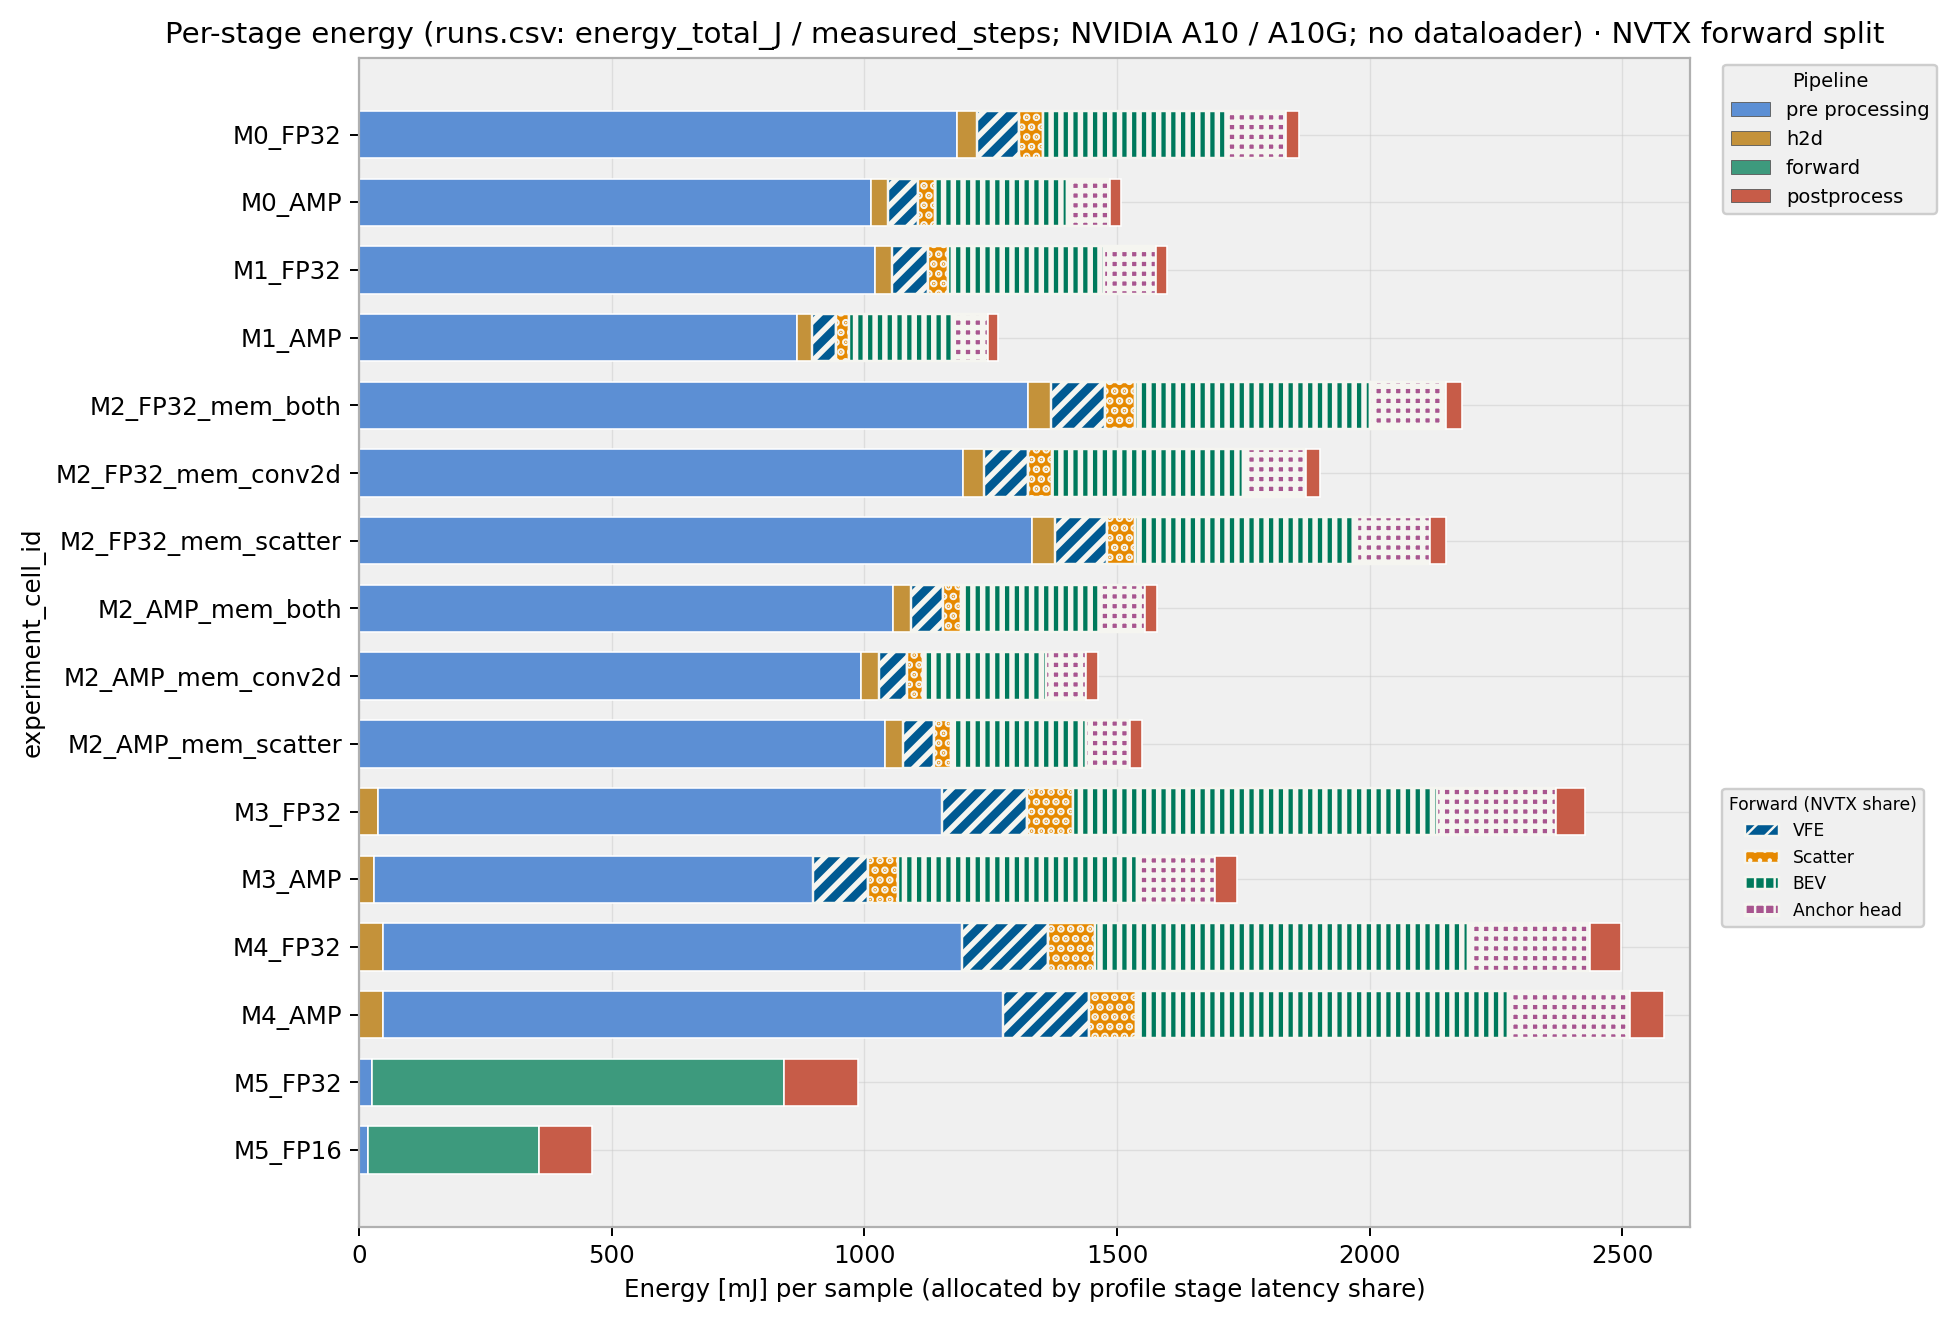
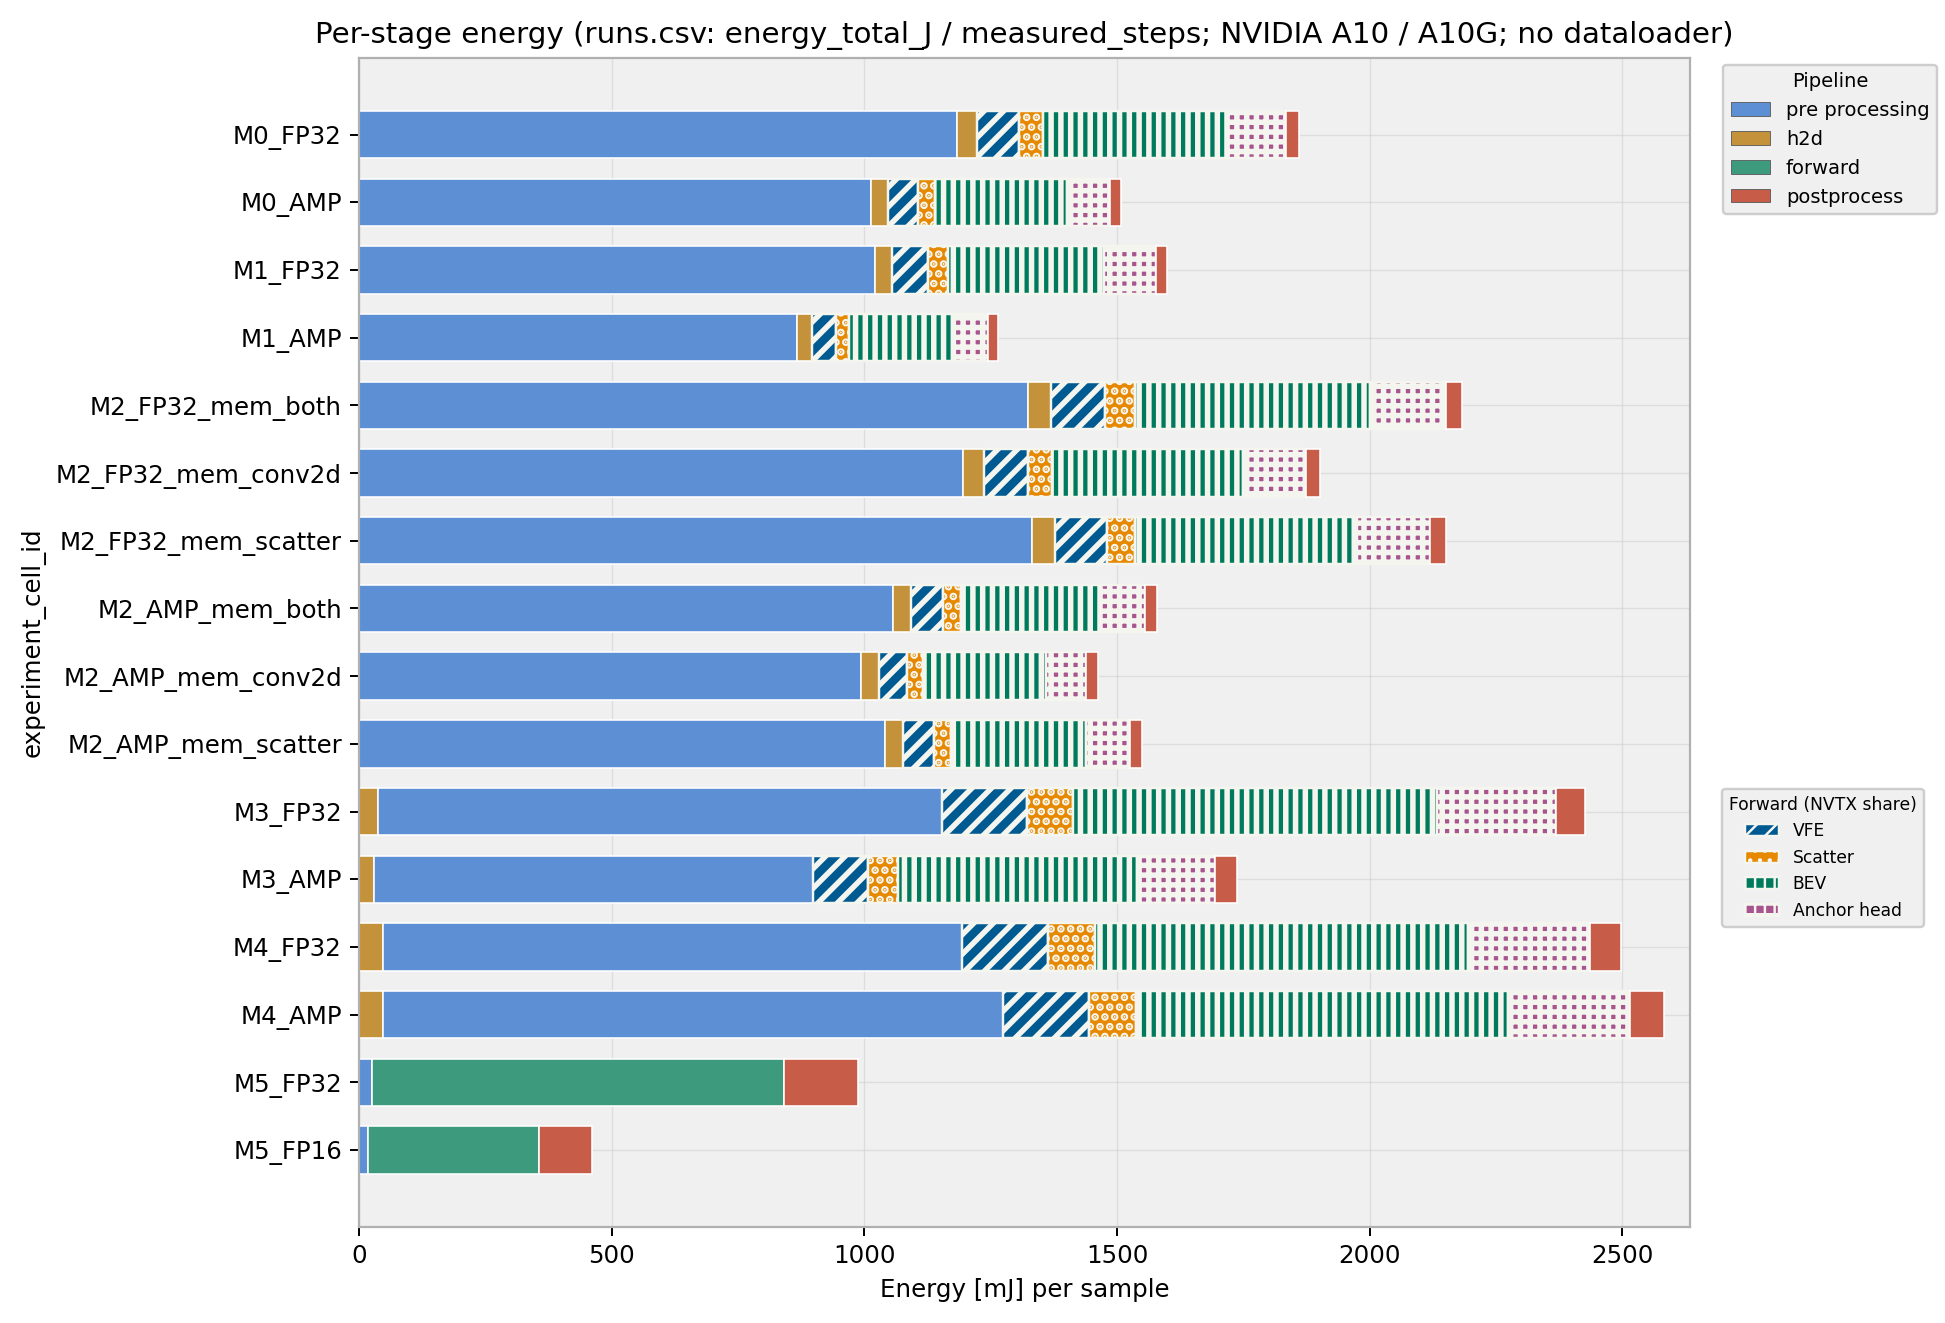
energy plot m5

Changed region(s): [[0.0925, 0.0, 0.9563, 0.031], [0.3393, 0.9607, 0.7404, 0.9917]]

diff --git a/report/plot_energy.py b/report/plot_energy.py
@@ -96,9 +96,31 @@ except ImportError:
 _REPO_ROOT = Path(__file__).resolve().parent.parent
 _V2_FULL = _REPO_ROOT / "modal_mls_results" / "modal_v2_allcells_full" / "runs.csv"
 _V2 = _REPO_ROOT / "modal_mls_results" / "modal_v2" / "runs.csv"
-DEFAULT_RUNS_CSV = _V2_FULL if _V2_FULL.is_file() else _V2
-DEFAULT_FORWARD_NVTX_ROOT = _REPO_ROOT / "modal_outputs" / "modal_v2_a10"
+_V4_A10 = _REPO_ROOT / "modal_outputs" / "modal_v4_a10"
+_V3_A10 = _REPO_ROOT / "modal_outputs" / "modal_v3_a10"
+DEFAULT_RUNS_CSV = _V4_A10 if (_V4_A10 / "runs.csv").is_file() else (_V2_FULL if _V2_FULL.is_file() else _V2)
+DEFAULT_FORWARD_NVTX_ROOT = _V3_A10
+DEFAULT_M5_SOURCE_CSV = _V3_A10 / "runs.csv"
 DEFAULT_GPU = "A10"
+
+# Match report/plot_latency.py visual defaults
+LEGEND_FONTSIZE = 22
+LEGEND_TITLE_FONTSIZE = 22
+LEGEND_FONTSIZE_FWD = 22
+LEGEND_BORDER_COLOR = "black"
+LEGEND_BORDER_WIDTH = 1.0
+LEGEND_BOX_LEFT_X = 0.81
+
+
+def _style_legend_border_black(leg) -> None:
+    fr = leg.get_frame()
+    fr.set_edgecolor(LEGEND_BORDER_COLOR)
+    fr.set_linewidth(LEGEND_BORDER_WIDTH)
+
+
+def _style_legend_left_aligned(leg) -> None:
+    leg._legend_box.align = "left"  # noqa: SLF001
+    leg.get_title().set_ha("left")
 
 _TOOLS = _REPO_ROOT / "OpenPCDet" / "tools"
 if _TOOLS.is_dir() and str(_TOOLS) not in sys.path:
@@ -169,7 +191,7 @@ def parse_args():
         "--csv",
         type=Path,
         default=DEFAULT_RUNS_CSV,
-        help="runs.csv path or directory containing it (runs mode; default: modal_v2 bundle if present)",
+        help="runs.csv path or directory containing it (runs mode; default: modal_outputs/modal_v4_a10 if present)",
     )
     parser.add_argument(
         "--runs-root",
@@ -206,7 +228,13 @@ def parse_args():
         type=Path,
         default=DEFAULT_FORWARD_NVTX_ROOT,
         help="runs mode: root directory containing <cell>/artifacts/forward_nvtx_ms.json "
-        "(default: modal_outputs/modal_v2_a10)",
+        "(default: modal_outputs/modal_v3_a10)",
+    )
+    parser.add_argument(
+        "--m5-source-csv",
+        type=Path,
+        default=DEFAULT_M5_SOURCE_CSV,
+        help="runs mode: use M5 rows from this runs.csv (default: modal_outputs/modal_v3_a10/runs.csv)",
     )
     parser.add_argument(
         "--out",
@@ -572,16 +600,10 @@ def plot_runs_energy_stacked(
             )
             tight_rect = [0.0, 0.0, 0.92, 1.0]
 
-        ax.set_xlabel("Energy [mJ] per sample (allocated by profile stage latency share)")
+        ax.set_xlabel("Energy [mJ] per sample")
         ax.set_ylabel("experiment_cell_id")
-        title_extra = (
-            " · NVTX forward split"
-            if (nest_forward_from_artifacts and drew_forward_nvtx)
-            else ""
-        )
         ax.set_title(
-            "Per-stage energy (runs.csv: energy_total_J / measured_steps; %s; no dataloader)%s"
-            % (gpu_resolved, title_extra)
+            "Per-stage energy (runs.csv: energy_total_J / measured_steps; %s; no dataloader)" % gpu_resolved
         )
         ax.set_xlim(0, xmax * 1.02 if xmax > 0 else 1.0)
         ax.invert_yaxis()
@@ -725,6 +747,22 @@ def main_runs(args: argparse.Namespace) -> None:
     )
 
     df, gpu_resolved = load_filtered_latest(csv_path, args.gpu)
+
+    m5_source = Path(args.m5_source_csv).expanduser()
+    if not m5_source.is_absolute():
+        m5_source = (_REPO_ROOT / m5_source).resolve()
+    else:
+        m5_source = m5_source.resolve()
+    if m5_source.is_file():
+        try:
+            m5_df, _ = load_filtered_latest(m5_source, args.gpu)
+            m5_df = m5_df[m5_df["experiment_cell_id"].astype(str).str.startswith("M5_")].copy()
+            if not m5_df.empty:
+                base = df[~df["experiment_cell_id"].astype(str).str.startswith("M5_")].copy()
+                df = pd.concat([base, m5_df], ignore_index=True)
+        except Exception as ex:
+            print("plot_energy: failed to load M5 source %s: %s" % (m5_source, ex), file=sys.stderr)
+
     if "energy_total_J" not in df.columns or "measured_steps" not in df.columns:
         raise ValueError("runs.csv must include energy_total_J and measured_steps columns")
     df = sort_by_m_group(df)